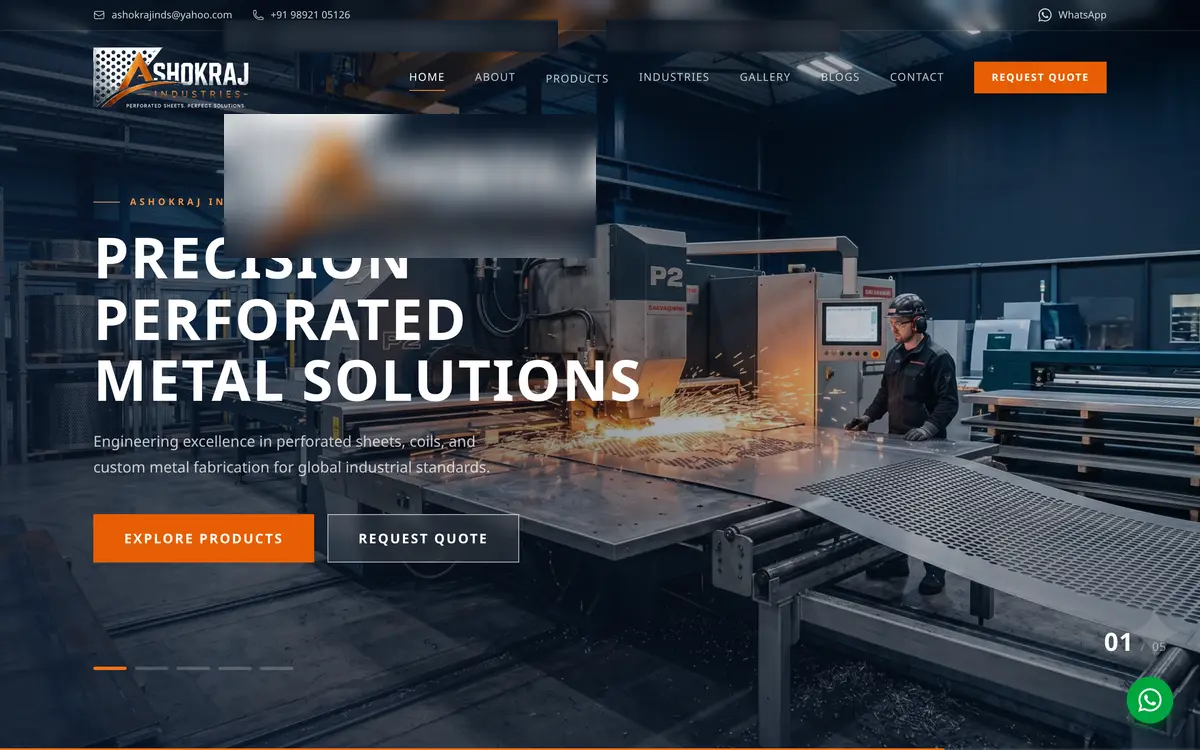
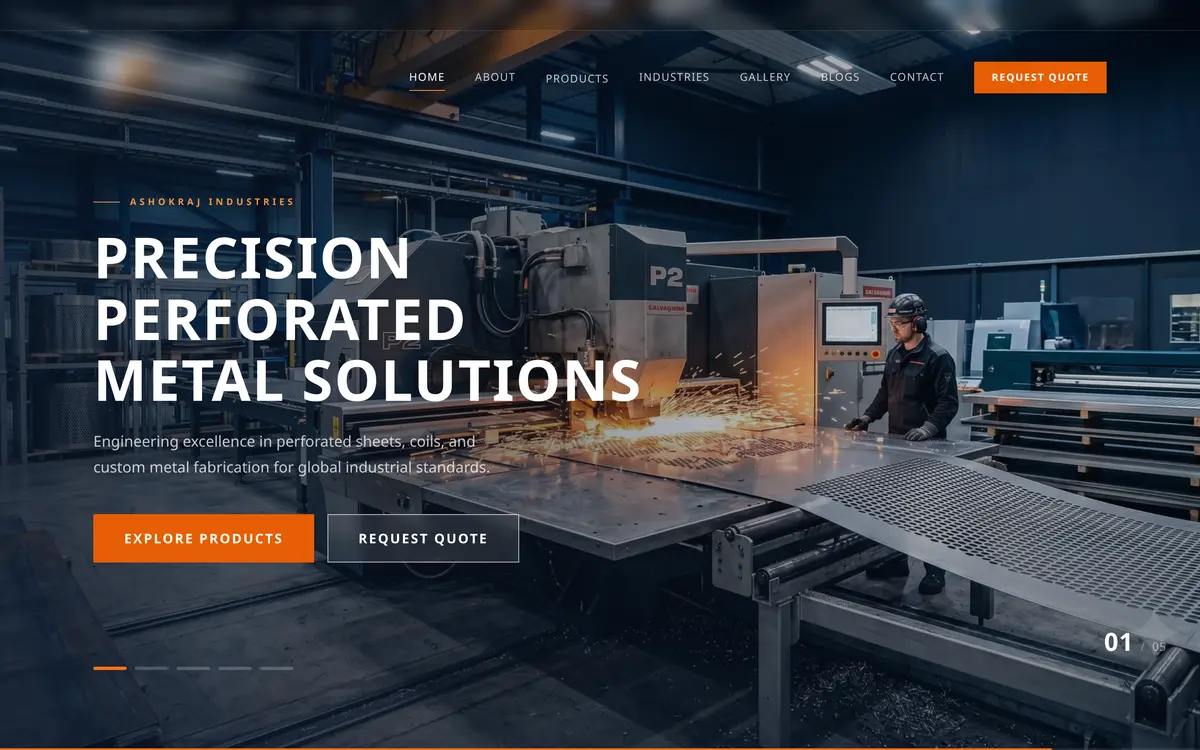
P-011c: Fix privacy blur with CSS filter on DOM before screenshot
Critical method change per Arjun's review:
- Apply CSS filter:blur() to DOM elements BEFORE screenshot capture
- Prevents coordinate space drift (previous blur was ~2.4× misaligned)

Changes:
1. Re-captured all three sites with DOM-level CSS blur:
   - web-pgpl-full.webp (41KB) - Logo blurred, contact info hidden
   - web-ashokraj.webp (81KB) - Logo blurred, contact info hidden
   - web-tricil-mobile.webp (26KB) - Logo blurred, hero sharp

2. CSS filter approach (blur radius 15px on logos, 8px on contact):
   - Blurred header logos with filter:blur() before capture
   - Hidden cookie banners and WhatsApp widgets
   - Waited for all first-viewport images to load
   - Fixed white bands by ensuring full page render

3. Removed stale scroll comment at home.css:2145-2147

KEEP_PGPL = yes - pgpltechprint.com retained.

Verified: All logos blurred, no readable emails/phones, no PrintSahaj
logo replacements, no white bands, tricil assets fully loaded.

diff --git a/web/src/app/home.css b/web/src/app/home.css
@@ -2143,10 +2143,9 @@
 }
 
 /* ---- site: client websites ------------------------------------------------
-   A big browser at the back (site A, full first screen; its full-page capture
-   scrolls slowly when motion is allowed), a smaller browser low in the middle
-   (site B, full first screen) and a tilted phone in front (site C, mobile).
-   Every screen is a whole first screen at its own aspect: nothing is cropped. */
+   A big browser at the back (site A, full first screen), a smaller browser low
+   in the middle (site B, full first screen) and a tilted phone in front (site C,
+   mobile). Every screen is a whole first screen at its own aspect: nothing is cropped. */
 .dvc--site .dvc__layer--back { top: 0; left: 0; right: auto; --w: 72cqw; }
 .dvc--site .dvc__layer--accent { top: auto; right: auto; left: 37cqw; bottom: 0; --w: 44cqw; --hmax: calc(var(--H) * 0.62); }
 .dvc--site .dvc__layer--front { top: auto; left: auto; right: 3cqw; bottom: 1.5cqw; --w: 18.5cqw; --hmax: calc(var(--H) * 0.92); }
